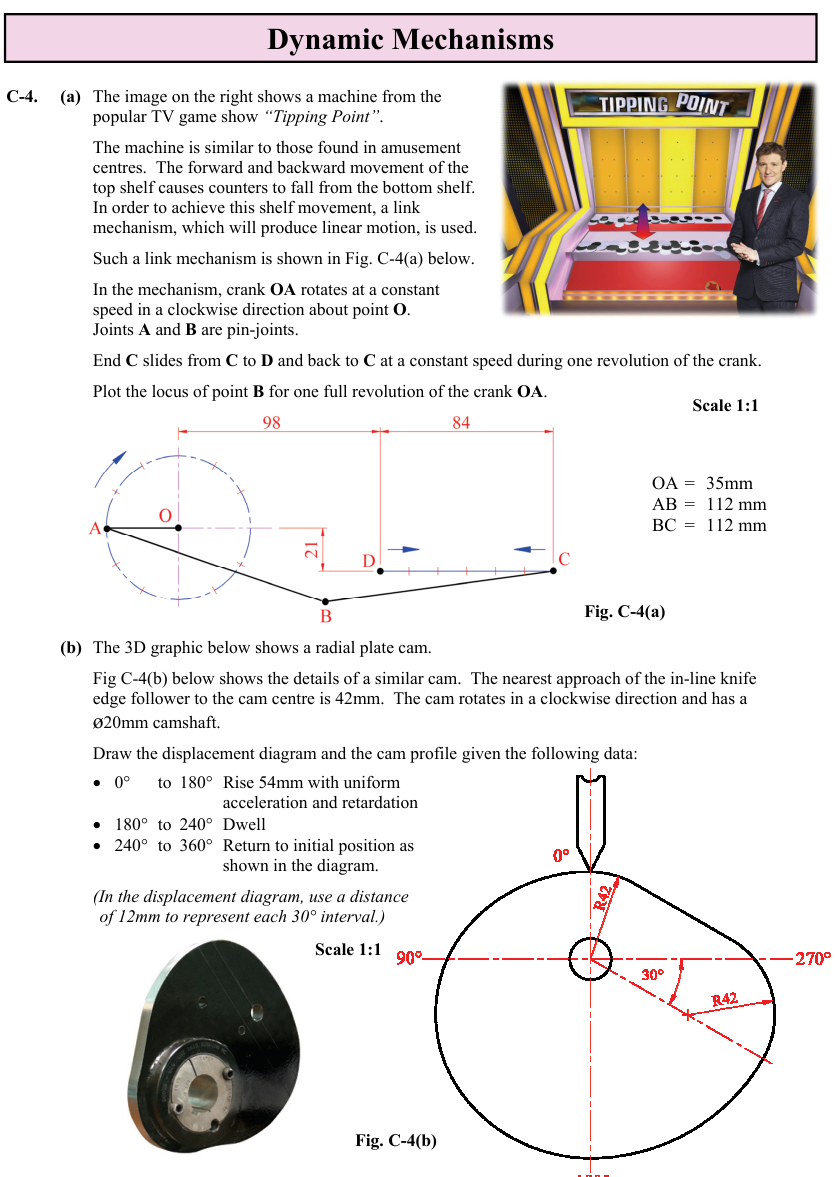
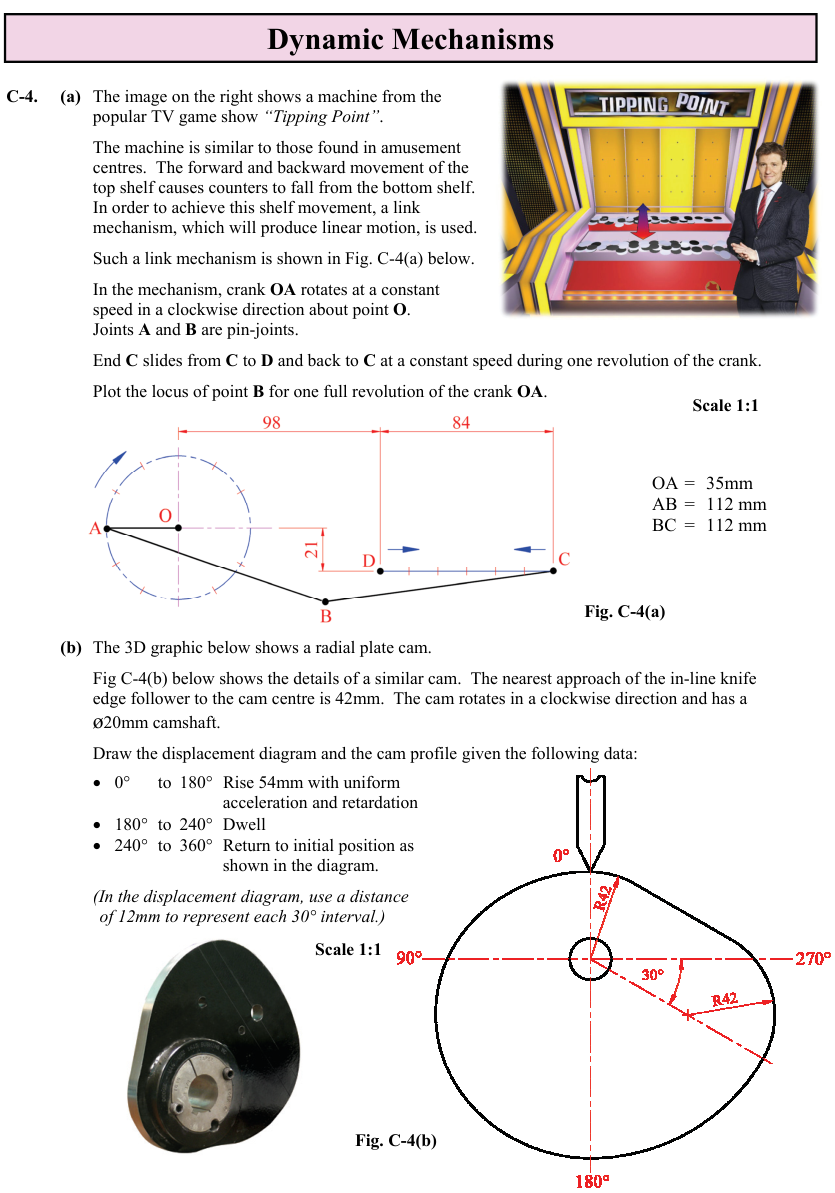
Mark Bank DCG: a crop follows its drawing past the top of the running foot
Found carding 2014 HL: C-5's drawing ends with dimension lines ("45", "44",
"6") that start below the top of the page number and run to y=805.8, and
the crop stopped at the foot's top, cutting them through. page_box() took
only artwork that STARTS above the foot. Now, where the artwork above
already reaches down to the foot, a piece that starts within a line (13pt)
of the foot's top is the same drawing and the crop follows it; the foot's
own printed line is still painted out by foot_boxes().

Re-cut every carded sitting, 2015-2026 both levels: one crop changes, 2015
HL C-4 (carded in 6d5ace3de, not yet shipped): its "180°" label under the
cam, which the old cut sliced, is now whole (835x1177 -> 835x1193). Looked
at; alt text now names the 180 degree position; md5 updated. Every other
crop re-cuts byte-identical.

Deck: higher.ts changes only that crop's srcHash and alt on its two cards
(dcg-2015-hl-c4a, -c4b); dcg.json unchanged; ratchet re-measured (dcg
only). Reconcile 734/1021, 0 orphans; cardlint clean; the 12 DCG gate files
pass. Only DCG files change.

diff --git a/components/MarkBank/cards/dcg/higher.ts b/components/MarkBank/cards/dcg/higher.ts
@@ -947,8 +947,8 @@ export const CARDS: SecCard[] = [
     questionFigure: {
           "candId": "dcg-2015-HL-paper-secC-q4-art",
           "src": "/exam-figures/dcg/markbank/dcg-2015-HL-paper-secC-q4-art.png",
-          "srcHash": "4ff23cd741e2e88e91bd521636218603",
-          "alt": "Question C-4, Dynamic Mechanisms, as printed. The option banner; part (a): a photograph of the Tipping Point game machine and Fig. C-4(a), the crank OA and the link mechanism with the points A, B, C and D (98, 84 and 21; OA 35mm, AB and BC 112mm); part (b): the cam motion in three bullets, a photograph of a radial plate cam, and Fig. C-4(b), the cam with its knife edge follower, R42 arcs and the 0, 90, 270 degree and 30 degree positions. Scale 1:1.",
+          "srcHash": "0a47e644db5a73be54d7e4b2076ccaa9",
+          "alt": "Question C-4, Dynamic Mechanisms, as printed. The option banner; part (a): a photograph of the Tipping Point game machine and Fig. C-4(a), the crank OA and the link mechanism with the points A, B, C and D (98, 84 and 21; OA 35mm, AB and BC 112mm); part (b): the cam motion in three bullets, a photograph of a radial plate cam, and Fig. C-4(b), the cam with its knife edge follower, R42 arcs and the 0, 90, 180, 270 degree and 30 degree positions. Scale 1:1.",
           "lettersVisible": [],
           "attribution": "SEC Leaving Certificate Design and Communication Graphics 2015 Higher Level — © State Examinations Commission"
     },
@@ -968,8 +968,8 @@ export const CARDS: SecCard[] = [
     questionFigure: {
           "candId": "dcg-2015-HL-paper-secC-q4-art",
           "src": "/exam-figures/dcg/markbank/dcg-2015-HL-paper-secC-q4-art.png",
-          "srcHash": "4ff23cd741e2e88e91bd521636218603",
-          "alt": "Question C-4, Dynamic Mechanisms, as printed. The option banner; part (a): a photograph of the Tipping Point game machine and Fig. C-4(a), the crank OA and the link mechanism with the points A, B, C and D (98, 84 and 21; OA 35mm, AB and BC 112mm); part (b): the cam motion in three bullets, a photograph of a radial plate cam, and Fig. C-4(b), the cam with its knife edge follower, R42 arcs and the 0, 90, 270 degree and 30 degree positions. Scale 1:1.",
+          "srcHash": "0a47e644db5a73be54d7e4b2076ccaa9",
+          "alt": "Question C-4, Dynamic Mechanisms, as printed. The option banner; part (a): a photograph of the Tipping Point game machine and Fig. C-4(a), the crank OA and the link mechanism with the points A, B, C and D (98, 84 and 21; OA 35mm, AB and BC 112mm); part (b): the cam motion in three bullets, a photograph of a radial plate cam, and Fig. C-4(b), the cam with its knife edge follower, R42 arcs and the 0, 90, 180, 270 degree and 30 degree positions. Scale 1:1.",
           "lettersVisible": [],
           "attribution": "SEC Leaving Certificate Design and Communication Graphics 2015 Higher Level — © State Examinations Commission"
     },

diff --git a/scripts/markbank/authoring/dcg_figures.py b/scripts/markbank/authoring/dcg_figures.py
@@ -253,12 +253,26 @@ def page_box(page, page_rows, head):
     W = page.rect.width
     foot_top = min(feet) if feet else H - 46
     left, right = PAGE_SIDES[0], W - PAGE_SIDES[1]
-    for box in artwork(page):
-        if box.y0 < top - 14 or box.y0 >= foot_top or box.is_empty:
+    art = [box for box in artwork(page)
+           if not box.is_empty and box.y0 >= top - 14]
+    for box in art:
+        if box.y0 >= foot_top:
             continue
         left = min(left, box.x0 - 3)
         right = max(right, box.x1 + 3)
         bottom = max(bottom, box.y1 + 3)
+    # Artwork that RUNS ON past the running foot's top: 2014 Higher C-5 is a
+    # drawing set as tens of thousands of thin image strips, and its last
+    # dimension lines ("45", "44", "6") start below the page number's top at
+    # y=794.9 and end at 805.8, so the crop cut them through. A piece that
+    # starts within a line of the foot's top, where the artwork above already
+    # reaches down to it, is the same drawing; the foot itself is painted out
+    # by foot_boxes().
+    reach = max((b.y1 for b in art if b.y0 < foot_top), default=0)
+    if reach >= foot_top - LINE:
+        for box in art:
+            if foot_top <= box.y0 < foot_top + LINE:
+                bottom = max(bottom, box.y1 + 3)
     return pymupdf.Rect(max(left, 8), max(top - 14, 18),
                         min(right, W - 8), min(bottom, H - 26))
 
